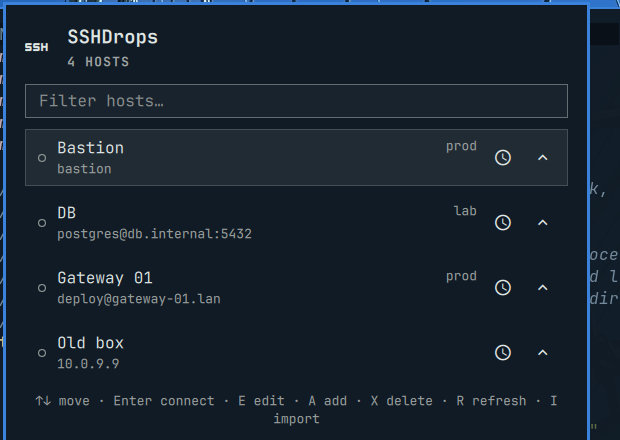
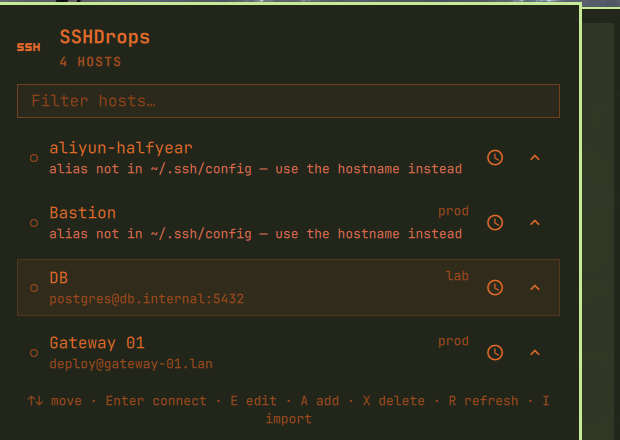
Fix connect: xdg-terminal-exec needs -e or ssh never runs
Clicking a host opened an empty window, or scrambled the display of a
terminal that was already open, and ssh never ran at all.

The launcher passed the destination as bare argv to omarchy-launch-
terminal. xdg-terminal-exec only treats trailing arguments as a command
when -e is present; without it the terminal receives them as filenames to
open, so ssh became a filename and foot ended up drawing on a tty it did
not own. Use the form Omarchy's own launchers use:

  xdg-terminal-exec --app-id=... --title=... -e bash -c '<script>'

bash -c gives the command a real PATH and a controlling tty, so the
password prompt, the host-key prompt, and full-screen remote programs all
work. Passwords are never collected or stored by the plugin; ssh prompts
for them in the new terminal as it always does.

Also flag an alias that ~/.ssh/config does not define. ssh falls back to
treating it as a hostname, DNS fails, and the terminal closes instantly
with no explanation. ssh -G gives the tell: a real alias resolves to
something other than the alias itself. The row now says so in red before
the user can hit the failure.

Verified against a real host: the session comes back with the remote
hostname and uname.

diff --git a/Service.qml b/Service.qml
@@ -282,14 +282,24 @@ Item {
 
   // Open a terminal running ssh to this host.
   //
-  // `shell-reconnect` routes through `bash -ic` because Omarchy's reconnecting
-  // `ssh()` is a bash function, defined in the interactive rc chain and
-  // invisible to a plain exec. The interactive flag is what pulls that rc in;
-  // the wrapper then cleans up terminal modes and retries a dropped session.
+  // The launch goes through `xdg-terminal-exec ... -e bash -c '<script>'`
+  // rather than passing the command as bare argv. That is the form Omarchy's
+  // own terminal launchers use (see omarchy-launch-floating-terminal-with-
+  // presentation), and it is required: `xdg-terminal-exec` only treats its
+  // trailing arguments as a command when `-e` is present. Without `-e` the
+  // terminal takes them as filenames to open, so ssh never runs and the new
+  // window comes up empty — or, worse, reuses a tty that an existing terminal
+  // is still drawing on and scrambles that window's display.
   //
-  // Both modes build an argv array. `bash -ic` takes the ssh command as a
-  // single string, so it is quoted here with the same single-quote escaping
-  // Util.shellQuote uses — the host name lands as one literal word.
+  // `bash -c` then runs the command with a real PATH and a controlling tty, so
+  // the password prompt, the host-key prompt, and a full-screen remote program
+  // (vim, htop, tmux) all behave. Passwords are never collected, stored, or
+  // passed by this plugin — ssh prompts for them in the new terminal, exactly
+  // as it does on the command line, and key-based auth keeps working because
+  // ssh still reads the user's own ssh config and agent.
+  //
+  // The host name is single-quote escaped with Util.shellQuote, so a name that
+  // contains shell metacharacters lands as one literal argument.
   function connect(host) {
     if (!Model.isConnectable(host)) {
       root.lastError = "That host has no hostname or alias"
@@ -297,19 +307,33 @@ Item {
     }
 
     var destination = Model.destinationArgs(host)
-    var mode = root.modeFor(host)
-    var argv = ["omarchy-launch-terminal"]
-
-    if (mode === "shell-reconnect") {
-      var command = "ssh " + destination.map(Util.shellQuote).join(" ")
-      // -i so the rc chain runs and defines the wrapper; -c so the terminal
-      // runs the command instead of dropping into an interactive prompt.
-      argv = argv.concat(["bash", "-ic", command])
-    } else {
-      argv = argv.concat(["ssh"]).concat(destination)
+    if (destination.length === 0) {
+      root.lastError = "That host has no hostname or alias"
+      return false
     }
 
-    Util.execArgv(argv)
+    var quoted = destination.map(Util.shellQuote).join(" ")
+    var mode = root.modeFor(host)
+    var script
+
+    if (mode === "shell-reconnect") {
+      // Omarchy's reconnecting `ssh()` is a bash function defined in the
+      // interactive rc chain, invisible to a plain exec. `-i` is what pulls
+      // that rc in; `-c` keeps the terminal from dropping into a prompt
+      // instead of running the command. The wrapper then disarms the terminal
+      // modes a dropped session leaves armed and retries the connection.
+      script = "bash -ic " + Util.shellQuote("ssh " + quoted)
+    } else {
+      script = "ssh " + quoted
+    }
+
+    Util.execArgv([
+      "setsid", "uwsm-app", "--",
+      "xdg-terminal-exec",
+      "--app-id=org.omarchy.sshdrops",
+      "--title=SSHDrops",
+      "-e", "bash", "-c", script
+    ])
     return true
   }
 

diff --git a/Panel.qml b/Panel.qml
@@ -424,7 +424,9 @@ Panel {
 
             Text {
               width: parent.width
-              text: "With an alias set, ssh resolves everything else from your own config."
+              text: root.editing.alias !== ""
+                ? "Connecting runs: ssh " + root.editing.alias + "  —  ssh resolves it from your own config."
+                : "Connecting runs: ssh " + (root.editing.user !== "" ? root.editing.user + "@" : "") + (root.editing.host || "…")
               color: root.dim
               font.family: root.fontFamily
               font.pixelSize: Style.font.caption
@@ -646,6 +648,10 @@ Panel {
 
     readonly property string subtitleText: Model.subtitle(host, resolvedInfo)
     readonly property string sessionLabel: live ? sessionCount + "▸" : ""
+    // An alias that ssh does not resolve would otherwise open a terminal that
+    // exits instantly with "Could not resolve hostname", which reads as the
+    // plugin being broken. Say so on the row instead.
+    readonly property bool aliasMissing: Model.aliasLooksUndefined(host, resolvedInfo)
 
     hasCursor: selected
     current: selected
@@ -754,8 +760,8 @@ Panel {
           anchors.topMargin: Style.space(1)
           visible: text !== ""
           textFormat: Text.PlainText
-          text: hostRow.subtitleText
-          color: root.dim
+          text: hostRow.aliasMissing ? "alias not in ~/.ssh/config — use the hostname instead" : hostRow.subtitleText
+          color: hostRow.aliasMissing ? root.urgent : root.dim
           font.family: root.fontFamily
           font.pixelSize: Style.font.caption
           elide: Text.ElideRight

diff --git a/Model.js b/Model.js
@@ -394,6 +394,20 @@ function liveSessionMap(hosts, counts) {
   return map
 }
 
+// True when a host's ssh alias is not actually defined in the user's ssh
+// config.
+//
+// `ssh -G` falls back to treating an unknown alias as a literal hostname, so
+// the tell is that the resolved `hostname` came back unchanged. A real alias
+// resolves to an address (or at least something else), and `Could not resolve
+// hostname` is what the user would otherwise see as a window that opens and
+// closes instantly with no explanation.
+function aliasLooksUndefined(host, resolved) {
+  if (!host || !host.alias || !resolved) return false
+  if (!resolved.ok) return true
+  return resolved.hostname === host.alias
+}
+
 // ------------------------------------------------------------------ formatting
 
 // The second line under a host: the destination as ssh would read it, plus the

diff --git a/README.md b/README.md
@@ -69,15 +69,47 @@ Imported entries store **only the alias**. Nothing is copied out of your ssh
 config and nothing is written back to it, so an import can never drift out of
 sync with the settings you actually connect with.
 
+## Passwords and keys
+
+SSHDrops never asks for, stores, or transmits a password. When you press
+`Enter`, ssh runs in the new terminal exactly as it would on the command line,
+so its own prompts work:
+
+- **Password auth** — ssh asks for the password in the terminal. Typing shows
+  nothing, which is normal.
+- **Key auth** — ssh reads `~/.ssh/config` and the agent as usual, so keys,
+  `IdentityFile`, and `IdentitiesOnly` keep working without configuring
+  anything here.
+- **First connection to a new host** — ssh asks you to confirm the host key.
+  Answering needs a real terminal, which is why the plugin launches one instead
+  of trying to do it inline.
+
+If a saved host is an alias that `~/.ssh/config` does not define, ssh treats it
+as a hostname, DNS fails, and the terminal closes instantly. The row says
+**"alias not in ~/.ssh/config"** in red before you get that far.
+
 ## Connect modes
 
 Set per widget in the bar settings, or per host by saving one with a mode of
 its own.
 
-- **`shell`** (default) — `omarchy-launch-terminal ssh <host>`.
-- **`shell-reconnect`** — goes through `bash -ic` so it picks up Omarchy's
+- **`shell`** (default) — runs `ssh <host>` in a new terminal.
+- **`shell-reconnect`** — runs it through `bash -ic` so it picks up Omarchy's
   `ssh()` wrapper from `default/bash/fns/ssh-reconnect`, which disarms the
   terminal modes a dropped session leaves armed and retries the connection.
+
+## How the terminal is launched
+
+```
+setsid uwsm-app -- xdg-terminal-exec --app-id=org.omarchy.sshdrops \
+  --title=SSHDrops -e bash -c 'ssh <quoted-host>'
+```
+
+The `-e` is load-bearing. Without it `xdg-terminal-exec` hands the trailing
+arguments to the terminal as filenames rather than as a command: ssh never
+runs, the new window comes up empty, and foot can end up drawing on a tty that
+an already-open terminal still owns, scrambling that window's display. This is
+the same form Omarchy's own terminal launchers use.
 
 ## Settings
 
